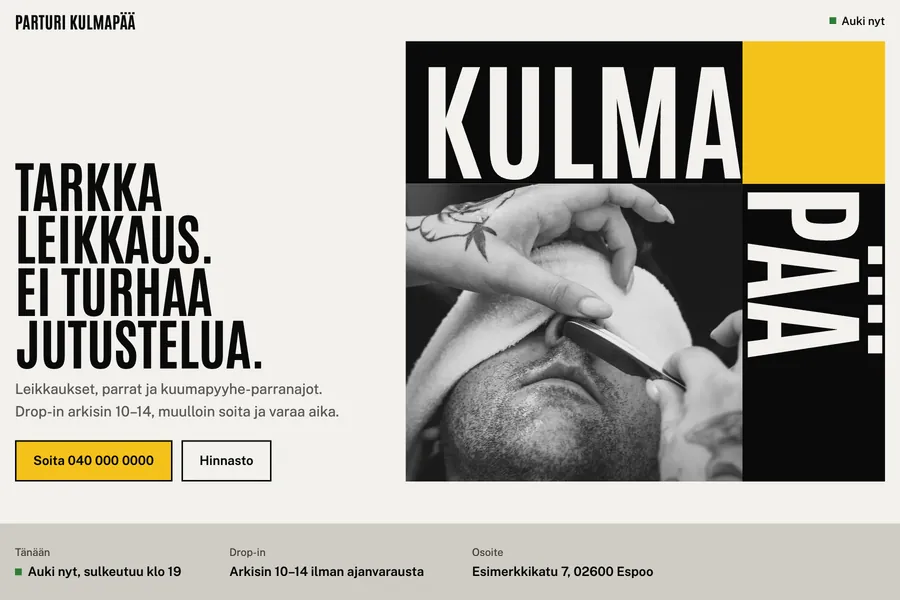
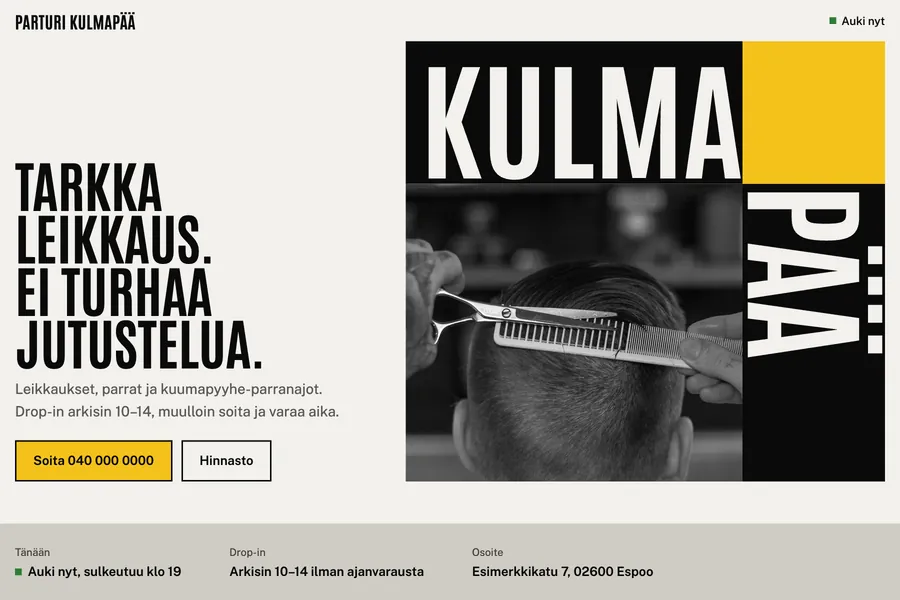
Kulmapää: rauhallisempi hero-kuva; portfolio: alue ja aikataulu
- Kulmapään heron kuvaksi on vaihdettu mustavalkoinen leikkauskuva (niska, kampa ja sakset)
  kuumapyyhe-parranajon tilalle. Parturit-osiossa on nyt yksi partakuva ja molemmat parturit.
  Kuumapyyhekuva on poistettu ja CREDITS.md päivitetty.
- Portfolion title, meta- ja og-kuvaus, hero, yhteystiedot, footer ja og-kuva: palvelu koko
  Suomessa etänä, pääkaupunkiseudulla myös paikan päällä.
- Heron fakta "Valmis alle viikossa" ja UKK:n aikatauluvastaus tarkennettu.
- Korttikuvat, puhelinruudut ja og-kuva päivitetty (npm run kuvat).

Changed region(s): [[0.4356, 0.3, 0.84, 0.81]]

diff --git a/site/esimerkit/kulmapaa/index.html b/site/esimerkit/kulmapaa/index.html
@@ -10,9 +10,9 @@
   <link rel="icon" href="data:,">
   <link rel="preload" href="antonio.woff2" as="font" type="font/woff2" crossorigin>
   <link rel="preload" href="public-sans.woff2" as="font" type="font/woff2" crossorigin>
-  <link rel="preload" as="image" type="image/webp" imagesrcset="/kuvat/esimerkit/kulmapaa/pyyhe-640.webp 640w, /kuvat/esimerkit/kulmapaa/pyyhe-960.webp 960w, /kuvat/esimerkit/kulmapaa/pyyhe-1280.webp 1280w" imagesizes="(min-width: 64rem) 40vw, 70vw" fetchpriority="high">
-  <link rel="stylesheet" href="tyylit.css?v=20261108b">
-  <script defer src="aukiolo.js?v=20261108b"></script>
+  <link rel="preload" as="image" type="image/webp" imagesrcset="/kuvat/esimerkit/kulmapaa/leikkaus-640.webp 640w, /kuvat/esimerkit/kulmapaa/leikkaus-960.webp 960w, /kuvat/esimerkit/kulmapaa/leikkaus-1280.webp 1280w" imagesizes="(min-width: 64rem) 40vw, 70vw" fetchpriority="high">
+  <link rel="stylesheet" href="tyylit.css?v=20261109a">
+  <script defer src="aukiolo.js?v=20261109a"></script>
 </head>
 <body>
   <a class="ohitus" href="#sisalto">Siirry sisältöön</a>
@@ -45,8 +45,8 @@
             <span class="kulma" aria-hidden="true"></span>
             <span class="seina seina-pysty" aria-hidden="true"><span>pää</span></span>
             <picture class="kyltti-kuva">
-              <source type="image/webp" srcset="/kuvat/esimerkit/kulmapaa/pyyhe-640.webp 640w, /kuvat/esimerkit/kulmapaa/pyyhe-960.webp 960w, /kuvat/esimerkit/kulmapaa/pyyhe-1280.webp 1280w" sizes="(min-width: 64rem) 40vw, 70vw">
-              <img src="/kuvat/esimerkit/kulmapaa/pyyhe-960.jpg" width="1280" height="1600" alt="Parturi ajaa asiakkaan partaa partaveitsellä, kasvoilla kuuma pyyhe" fetchpriority="high" decoding="async">
+              <source type="image/webp" srcset="/kuvat/esimerkit/kulmapaa/leikkaus-640.webp 640w, /kuvat/esimerkit/kulmapaa/leikkaus-960.webp 960w, /kuvat/esimerkit/kulmapaa/leikkaus-1280.webp 1280w" sizes="(min-width: 64rem) 40vw, 70vw">
+              <img src="/kuvat/esimerkit/kulmapaa/leikkaus-960.jpg" width="1280" height="1280" alt="Parturi tasaa niskan hiuksia kamman ja saksien avulla" fetchpriority="high" decoding="async">
             </picture>
           </div>
         </div>
@@ -99,24 +99,22 @@
       <section id="parturit" class="parturit">
         <div class="kehys">
           <h2>Parturit</h2>
-          <ul class="tiimi">
-            <li>
-              <picture class="tiimi-kuva">
-                <source type="image/webp" srcset="/kuvat/esimerkit/kulmapaa/parta-640.webp 640w, /kuvat/esimerkit/kulmapaa/parta-1280.webp 1280w" sizes="(min-width: 48rem) 44vw, 100vw">
-                <img src="/kuvat/esimerkit/kulmapaa/parta-960.jpg" width="1280" height="1280" loading="lazy" decoding="async" alt="Parturi muotoilee partaa saksilla">
-              </picture>
-              <h3>Jari</h3>
-              <p>Klassiset leikkaukset ja kuumapyyhe-parranajot. Saksilla yli 20 vuotta.</p>
-            </li>
-            <li>
-              <picture class="tiimi-kuva">
-                <source type="image/webp" srcset="/kuvat/esimerkit/kulmapaa/leikkaus-640.webp 640w, /kuvat/esimerkit/kulmapaa/leikkaus-1280.webp 1280w" sizes="(min-width: 48rem) 44vw, 100vw">
-                <img src="/kuvat/esimerkit/kulmapaa/leikkaus-960.jpg" width="1280" height="1280" loading="lazy" decoding="async" alt="Parturi leikkaa hiuksia kamman yli saksilla">
-              </picture>
-              <h3>Eetu</h3>
-              <p>Häivytykset, koneajot ja tarkat parrat. Kysy rohkeasti, mikä sopisi sinulle.</p>
-            </li>
-          </ul>
+          <div class="tiimi">
+            <picture class="tiimi-kuva">
+              <source type="image/webp" srcset="/kuvat/esimerkit/kulmapaa/parta-640.webp 640w, /kuvat/esimerkit/kulmapaa/parta-1280.webp 1280w" sizes="(min-width: 48rem) 30vw, 100vw">
+              <img src="/kuvat/esimerkit/kulmapaa/parta-960.jpg" width="1280" height="1280" loading="lazy" decoding="async" alt="Parturi muotoilee partaa saksilla">
+            </picture>
+            <ul class="tiimi-lista">
+              <li>
+                <h3>Jari</h3>
+                <p>Klassiset leikkaukset ja kuumapyyhe-parranajot. Saksilla yli 20 vuotta.</p>
+              </li>
+              <li>
+                <h3>Eetu</h3>
+                <p>Häivytykset, koneajot ja tarkat parrat. Kysy rohkeasti, mikä sopisi sinulle.</p>
+              </li>
+            </ul>
+          </div>
         </div>
       </section>
 

diff --git a/site/index.html b/site/index.html
@@ -3,8 +3,8 @@
 <head>
   <meta charset="utf-8">
   <meta name="viewport" content="width=device-width, initial-scale=1">
-  <title>Palin Web – nettisivut pienyrityksille Espoossa ja Helsingissä</title>
-  <meta name="description" content="Nettisivut paikallisille pienyrityksille Espoossa ja Helsingissä: suunnittelu, toteutus ja Google-näkyvyys. Ilmainen luonnos ennen kuin sitoudutte mihinkään.">
+  <title>Palin Web – nettisivut pienyrityksille pääkaupunkiseudulla ja koko Suomessa</title>
+  <meta name="description" content="Nettisivut pienyrityksille: suunnittelu, toteutus ja Google-näkyvyys. Pääkaupunkiseudulla paikan päällä, etänä koko Suomessa. Ilmainen luonnos ennen kuin sitoudutte mihinkään.">
   <link rel="canonical" href="https://palinweb.fi/">
   <meta name="theme-color" content="#1f3fd1">
   <meta name="color-scheme" content="light">
@@ -14,7 +14,7 @@
   <meta property="og:locale" content="fi_FI">
   <meta property="og:site_name" content="Palin Web">
   <meta property="og:title" content="Palin Web – Nettisivut, joista asiakkaanne löytävät teidät">
-  <meta property="og:description" content="Suunnittelu, toteutus ja Google-näkyvyys pienyrityksille Espoossa ja Helsingissä. Ilmainen luonnos ennen kuin sitoudutte mihinkään.">
+  <meta property="og:description" content="Suunnittelu, toteutus ja Google-näkyvyys pienyrityksille. Pääkaupunkiseudulla paikan päällä, etänä koko Suomessa. Ilmainen luonnos ennen kuin sitoudutte mihinkään.">
   <meta property="og:url" content="https://palinweb.fi/">
   <meta property="og:image" content="https://palinweb.fi/kuvat/og-kuva.png">
   <meta property="og:image:width" content="1200">
@@ -55,9 +55,9 @@
       <div class="wrap hero-grid">
         <div class="hero-text">
           <h1 id="hero-otsikko"><span class="sana"><span>Nettisivut,</span></span> <span class="sana"><span>joista</span></span> <span class="sana"><span>asiakkaanne</span></span> <span class="sana"><span>löytävät</span></span> <span class="sana"><span>teidät.</span></span></h1>
-          <p class="hero-lead">Suunnittelu, toteutus ja Google-näkyvyys pienyrityksille Espoossa ja Helsingissä.</p>
+          <p class="hero-lead">Suunnittelu, toteutus ja Google-näkyvyys pienyrityksille koko Suomessa. Pääkaupunkiseudulla tulen myös paikan päälle.</p>
           <ul class="facts">
-            <li>Valmis noin viikossa</li>
+            <li>Valmis alle viikossa</li>
             <li>Paketit alkaen 390&nbsp;€</li>
             <li>Ilmainen luonnos</li>
           </ul>
@@ -268,7 +268,7 @@
         <div class="faq">
           <details>
             <summary>Kauanko sivun tekeminen kestää?<span class="faq-ikoni" aria-hidden="true"></span></summary>
-            <p>Yleensä noin viikko siitä, kun saan tiedot. Laajemmat sivut 1–2 viikkoa.</p>
+            <p>Yleensä alle viikossa siitä, kun saan teiltä tiedot (palvelut, hinnat, aukioloajat ja kuvat). Laajemmat sivut 1–2 viikkoa.</p>
           </details>
           <details>
             <summary>Mitä nettisivu maksaa?<span class="faq-ikoni" aria-hidden="true"></span></summary>
@@ -303,7 +303,7 @@
           </div>
           <div>
             <dt>Alue</dt>
-            <dd>Espoo, Helsinki ja lähialueet</dd>
+            <dd>Pääkaupunkiseudulla paikan päällä, etänä koko Suomessa</dd>
           </div>
         </dl>
         <div class="me">
@@ -317,7 +317,7 @@
   <footer class="site-footer">
     <div class="wrap">
       <div class="footer-inner">
-        <p>Palin Web<br>Carolus Palin<br>Espoo</p>
+        <p>Palin Web<br>Carolus Palin<br>Espoo, etänä koko Suomessa</p>
         <p>© 2026 Palin Web</p>
       </div>
       <p class="footer-sana" aria-hidden="true">palinweb.fi</p>

diff --git a/site/esimerkit/kulmapaa/tyylit.css b/site/esimerkit/kulmapaa/tyylit.css
@@ -85,7 +85,7 @@ h2::before { content: ""; display: block; width: 0.32em; height: 0.32em; margin-
 .kyltti { container-type: inline-size; }
 .kyltti-sisa {
   --k: 0.52;
-  --H: 100cqw;
+  --H: 84cqw;
   --fs-max: 34cqw;
   --fs: min(100cqw / (var(--n1) * var(--k) + 1.1), var(--H) / (var(--n2) * var(--k)), var(--fs-max));
   --S: calc(var(--fs) * 1.1);
@@ -162,9 +162,11 @@ h2::before { content: ""; display: block; width: 0.32em; height: 0.32em; margin-
 
 /* Parturit */
 .parturit { padding-block: 4.5rem; }
-.tiimi { list-style: none; margin: 0; padding: 0; display: grid; gap: 3rem; }
-.tiimi-kuva img { width: 100%; aspect-ratio: 1; object-fit: cover; }
-.tiimi h3 { font-size: 2.25rem; margin: 1.25rem 0 0.5rem; }
+.tiimi { display: grid; gap: 2rem; }
+.tiimi-kuva img { width: 100%; aspect-ratio: 3 / 2; object-fit: cover; object-position: 50% 75%; }
+.tiimi-lista { list-style: none; margin: 0; padding: 0; display: grid; gap: 1.75rem; }
+.tiimi-lista li { padding-top: 1.25rem; border-top: 2px solid var(--musta); }
+.tiimi h3 { font-size: 2.25rem; margin: 0 0 0.5rem; }
 .tiimi p { max-width: 40ch; margin: 0; color: var(--harmaa); }
 
 /* Yhteystiedot */
@@ -200,8 +202,8 @@ h2::before { content: ""; display: block; width: 0.32em; height: 0.32em; margin-
   .yhteys-kuva img { aspect-ratio: 3 / 2; }
 }
 @media (min-width: 48rem) {
-  .tiimi { grid-template-columns: 1fr 1fr; column-gap: 2rem; }
-  .tiimi li:nth-child(2) { margin-top: 5rem; }
+  .tiimi { grid-template-columns: 5fr 7fr; column-gap: 3rem; align-items: start; }
+  .tiimi-kuva img { aspect-ratio: 1; }
 }
 @media (min-width: 64rem) {
   .hero-sisa {

diff --git a/tyokalut/og-kuva.html b/tyokalut/og-kuva.html
@@ -12,7 +12,7 @@
   .bar{position:absolute;left:0;right:0;bottom:0;height:22px;background:#1f3fd1}
 </style></head>
 <body>
-  <div class="top">Palin Web <span>Nettisivut pienyrityksille · Espoo ja Helsinki</span></div>
+  <div class="top">Palin Web <span>Nettisivut pienyrityksille koko Suomessa</span></div>
   <h1>Nettisivut, joista asiakkaanne löytävät teidät.</h1>
   <p class="sub">Suunnittelu, toteutus ja Google-näkyvyys. Ilmainen luonnos.</p>
   <div class="bar"></div>

diff --git a/CREDITS.md b/CREDITS.md
@@ -33,10 +33,9 @@ Tiedostot: `site/kuvat/esimerkit/<sivu>/<nimi>-{640,1280}.webp` ja `<nimi>-960.j
 
 | Tiedosto | Käyttö | Kuvaaja | Alkuperäinen kuva | Lisenssi | Muokkaukset |
 |---|---|---|---|---|---|
-| `pyyhe` | Hero, kulmakyltin kuva | [Jonathan Cooper](https://unsplash.com/@theshuttervision?utm_source=palinweb&utm_medium=referral) | [unsplash.com/photos/MzgQbB72dDo](https://unsplash.com/photos/a-man-getting-his-hair-cut-by-a-barber-MzgQbB72dDo) | Unsplash License | rajattu, pakattu (lisäksi WebP 960 px), **muokattu: mustavalkoiseksi** |
 | `kulma` | Kulmassa, katutasossa | [Haberdoedas](https://unsplash.com/@haberdoedas?utm_source=palinweb&utm_medium=referral) | [unsplash.com/photos/zj2CkHpoDPQ](https://unsplash.com/photos/barbershop-sign-with-a-traditional-pole-zj2CkHpoDPQ) | Unsplash License | rajattu, pakattu, **muokattu: mustavalkoiseksi** |
-| `leikkaus` | Parturi Eetu | [Jonathan Cooper](https://unsplash.com/@theshuttervision?utm_source=palinweb&utm_medium=referral) | [unsplash.com/photos/sS3qRFsKZlg](https://unsplash.com/photos/person-holding-white-and-gold-hair-comb-sS3qRFsKZlg) | Unsplash License | rajattu, pakattu, **muokattu: mustavalkoiseksi** |
-| `parta` | Parturi Jari | [Nathon Oski](https://unsplash.com/@onatecan?utm_source=palinweb&utm_medium=referral) | [unsplash.com/photos/fE42nRlBcG8](https://unsplash.com/photos/grayscale-photography-of-person-holding-scissor-clipping-mans-beard-fE42nRlBcG8) | Unsplash License | rajattu, pakattu, **muokattu: mustavalkoiseksi** |
+| `leikkaus` | Hero, kulmakyltin kuva | [Jonathan Cooper](https://unsplash.com/@theshuttervision?utm_source=palinweb&utm_medium=referral) | [unsplash.com/photos/sS3qRFsKZlg](https://unsplash.com/photos/person-holding-white-and-gold-hair-comb-sS3qRFsKZlg) | Unsplash License | rajattu, pakattu (lisäksi WebP 960 px), **muokattu: mustavalkoiseksi** |
+| `parta` | Parturit-osio | [Nathon Oski](https://unsplash.com/@onatecan?utm_source=palinweb&utm_medium=referral) | [unsplash.com/photos/fE42nRlBcG8](https://unsplash.com/photos/grayscale-photography-of-person-holding-scissor-clipping-mans-beard-fE42nRlBcG8) | Unsplash License | rajattu, pakattu, **muokattu: mustavalkoiseksi** |
 
 ## Portfolion kuvakaappaukset
 
